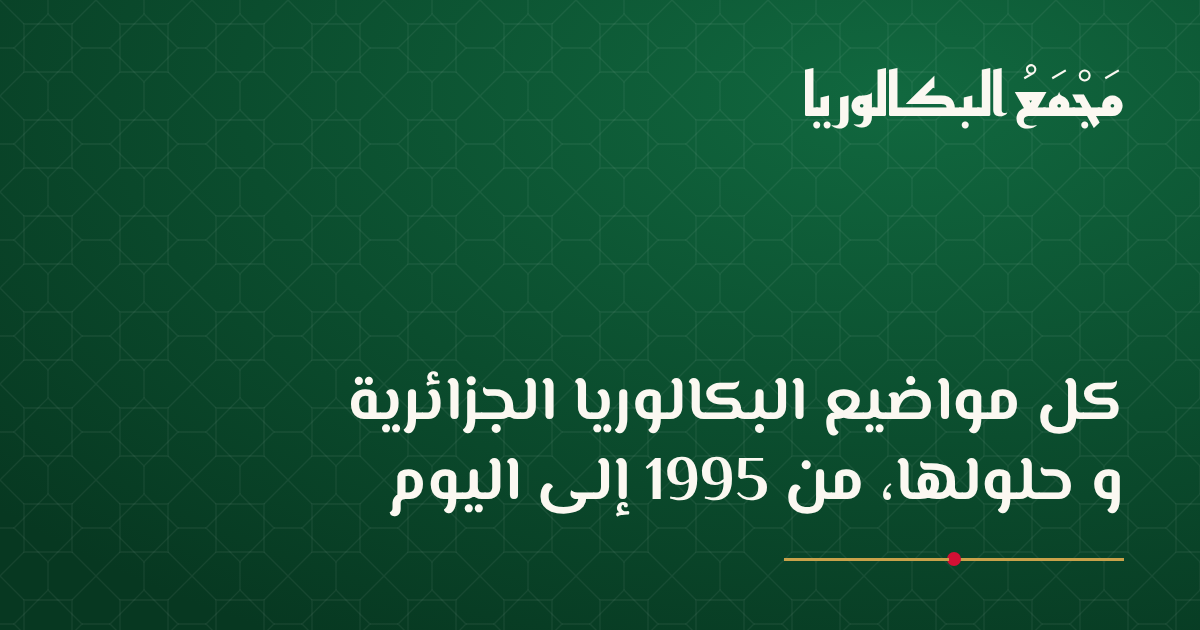
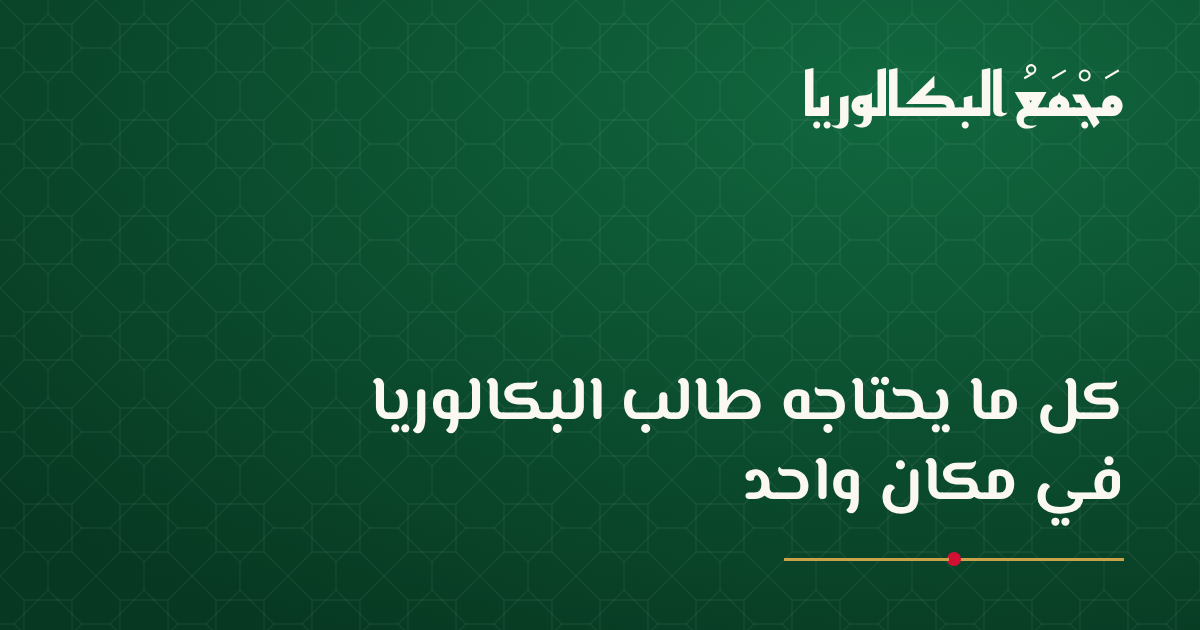
Link-preview image carries the new slogan
Claude-Session: https://claude.ai/code/session_01RebdVh7L7G1U18NGQJiRaA

Changed region(s): [[0.3083, 0.7238, 0.9558, 0.8444], [0.2775, 0.573, 0.8325, 0.6937]]

diff --git a/src/templates/base.html b/src/templates/base.html
@@ -16,7 +16,7 @@
 <meta name="theme-color" content="#08110D" media="(prefers-color-scheme: dark)">
 <link rel="icon" href="{{ root }}assets/icon.svg" type="image/svg+xml">
 <link rel="apple-touch-icon" href="{{ root }}assets/apple-touch-icon.png">
-<meta property="og:image" content="{{ site.url }}assets/og-image.jpg?v=2026b">
+<meta property="og:image" content="{{ site.url }}assets/og-image.jpg?v=2026c">
 <meta property="og:image:width" content="1200">
 <meta property="og:image:height" content="630">
 <meta property="og:image:alt" content="{{ site.title }} — {{ site.slogan }}">

diff --git a/brand/make2.py b/brand/make2.py
@@ -57,5 +57,5 @@ page('facebook-cover', 1640, 624, green_bg() + f'<div style="position:absolute;i
 # Open Graph 1200x630
 page('og-image', 1200, 630, green_bg() + f'''<div style="position:absolute;inset:0;padding:64px 76px;display:flex;flex-direction:column;justify-content:space-between">
 <div class="wm" style="font-size:60px">مَجْمَعُ البكالوريا</div>
-<div><div style="font:700 62px/1.3 EM;color:{CREAM}">كل مواضيع البكالوريا الجزائرية<br>و حلولها، من 1995 إلى اليوم</div>
+<div><div style="font:700 62px/1.3 EM;color:{CREAM}">كل ما يحتاجه طالب البكالوريا<br>في مكان واحد</div>
 <div class="rule" style="width:340px;margin-top:26px"><i></i><b></b><i></i></div></div></div>''')
